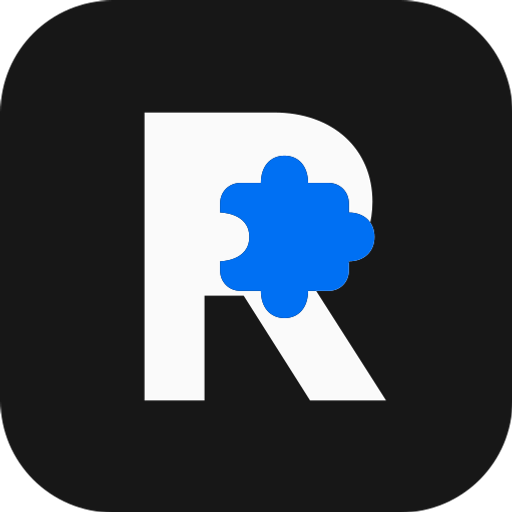
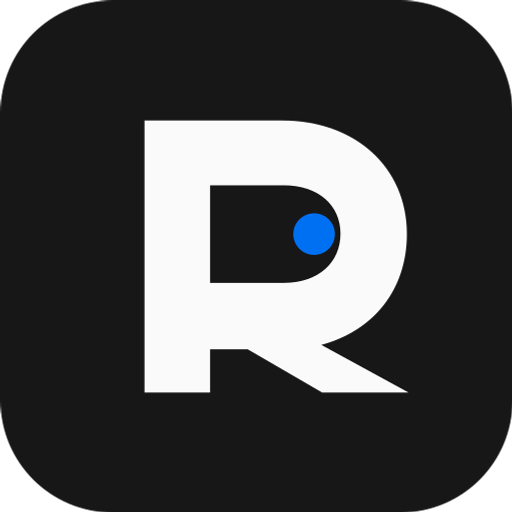
Replace cartoon puzzle mark with a refined lettermark
Drop the literal jigsaw counter — it read as clipart. Use a custom R
on an ink board with a single link-blue solution spark instead.

diff --git a/apps/web/src/components/brand/RebuzzleLogo.tsx b/apps/web/src/components/brand/RebuzzleLogo.tsx
@@ -14,11 +14,8 @@ const WORDMARK_SIZE: Record<LogoSize, string> = {
   lg: "text-xl",
 };
 
-/** Classic jigsaw: tabs on top/right/bottom, socket on the left. */
-const PUZZLE_PIECE =
-  "M30 22.8H32.55C32.55 20.75 33.7 19.4 35.5 19.4C37.3 19.4 38.45 20.75 38.45 22.8H41C42.45 22.8 43.55 23.9 43.55 25.35V26.5C45.45 26.5 46.75 27.7 46.75 29.55C46.75 31.4 45.45 32.6 43.55 32.6V33.75C43.55 35.2 42.45 36.3 41 36.3H38.45C38.45 38.35 37.3 39.7 35.5 39.7C33.7 39.7 32.55 38.35 32.55 36.3H30C28.55 36.3 27.45 35.2 27.45 33.75V32.6C27.45 32.6 31.1 32.6 31.1 29.55C31.1 26.5 27.45 26.5 27.45 26.5V25.35C27.45 23.9 28.55 22.8 30 22.8Z";
-
-const R_WITH_PUZZLE_CUTOUT = `M18 14h16.2c7.35 0 12.3 4.55 12.3 11.15 0 5.05-2.85 8.85-7.55 10.35L48.2 50H38.7L30.4 36.9H25.5V50H18V14Z${PUZZLE_PIECE}`;
+const R_LETTER =
+  "M18 15h17.2c9.15 0 15.6 5.85 15.6 14.2 0 6.85-4.05 12.05-10.7 13.85L51 49H40.2l-9.3-5.4H26.2V49H18V15Zm8.2 8.1v12.2h9.2c4.35 0 7.1-2.55 7.1-6.15 0-3.55-2.75-6.05-7.1-6.05h-9.2Z";
 
 type RebuzzleMarkProps = {
   className?: string;
@@ -26,8 +23,8 @@ type RebuzzleMarkProps = {
 };
 
 /**
- * Rebuzzle board mark — ink tile, geometric R, classic puzzle-piece counter.
- * Uses foreground/background so it flips cleanly with the theme.
+ * Rebuzzle mark — ink board, custom R, link-blue solution spark.
+ * Theme-aware via foreground/background fills.
  */
 export function RebuzzleMark({ className, title }: RebuzzleMarkProps) {
   return (
@@ -41,8 +38,8 @@ export function RebuzzleMark({ className, title }: RebuzzleMarkProps) {
     >
       {title ? <title>{title}</title> : null}
       <rect className="fill-foreground" height="64" rx="14" width="64" />
-      <path className="fill-background" d={R_WITH_PUZZLE_CUTOUT} fillRule="evenodd" />
-      <path className="fill-link" d={PUZZLE_PIECE} />
+      <path className="fill-background" d={R_LETTER} fillRule="evenodd" />
+      <circle className="fill-link" cx="39.2" cy="29.2" r="2.6" />
     </svg>
   );
 }
@@ -52,7 +49,6 @@ type RebuzzleLogoProps = {
   markClassName?: string;
   size?: LogoSize;
   showWordmark?: boolean;
-  /** Accessible name when the logo is the sole content of a link */
   title?: string;
 };
 
